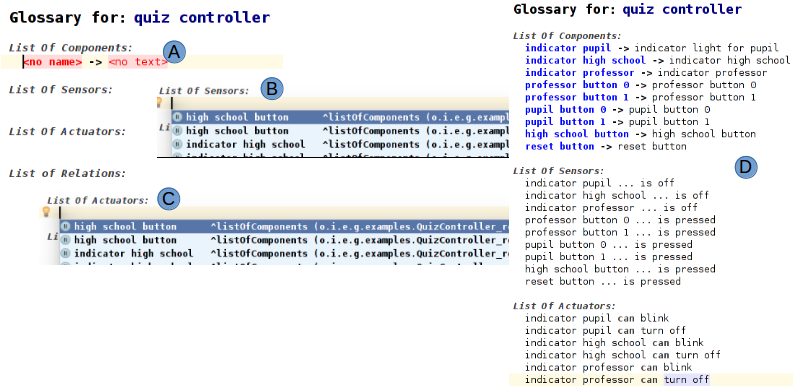
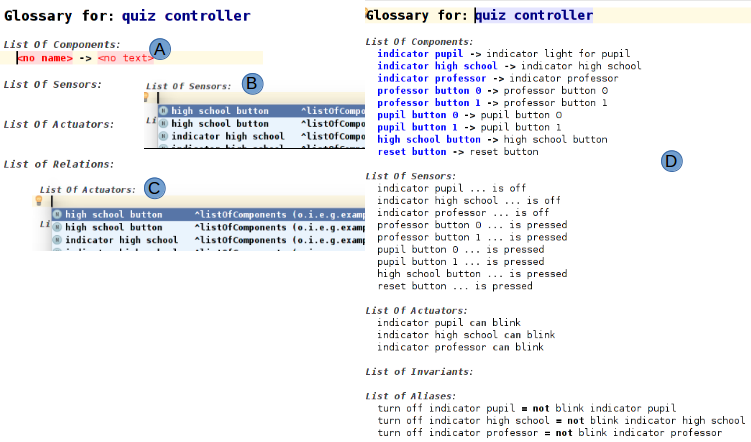
workedout with levi's feedback

diff --git a/text_demo/Demosteps.tex b/text_demo/Demosteps.tex
@@ -15,8 +15,7 @@ The user is provided with an editor
 1) components that interface with the controller; 2) sensors and actuators those
 components make available to the controller and 3) invariant relations
 that should hold between the sensor and actuator signals and aliases to
-formulas involving sensors or actuators for ease of writing.\levi{check for new
-version of the glossary for the QC}
+formulas involving sensors or actuators for ease of writing.
 \vspace{-.2cm}
 \begin{figure*}[!h]
 \centering
@@ -25,16 +24,13 @@ version of the glossary for the QC}
 components definition, (\emph{B}) sensors definition, (\emph{C}) actuators
 definition and (\emph{D}) completed QC glossary}
 \label{fig:glossary_def}
+\vspace{-.6cm}
 \end{figure*}
-\vspace{-.2cm}
 \subsection{Building \textsf{EARS-CTRL} requirements for the Quiz Controller}
 \vspace{-.2cm}
 The user is provided with an editor built in MPS \cite{mps} to specify the
-controller behavior. The user can input the requirements simply by filling in
-the instance of the EARS template with placeholders in the editor\levi{I don't
-think this sentence is necessary}.
-Figure~\ref{fig:EARS_req} provides step-by-step guidance to write the EARS
-requirements. In the projectional editor the user is provided with the option
+controller behavior. Figure~\ref{fig:EARS_req} provides step-by-step guidance to
+write the EARS requirements. In the projectional editor the user is provided with the option
 (i.e., using \emph{CTRL+Space} keys of the keyboard) to instantiate the
 EARS-based template with placeholders (\emph{Step A}). After obtaining an
 instance of the EARS template, the user fills in the placeholders with
@@ -43,30 +39,39 @@ of the figure~\ref{fig:EARS_req} depicts a complete Quiz Controller specificatio
 \begin{figure*}[!h]
 \centering
 \includegraphics[width=1.2\textwidth]{./images/Req_Spec_Steps.png}
-\caption{Step-by-step \textsf{EARS-CTRL} for controller requirements: (\emph{A})
-Empty instance of EARS template with placeholders, (\emph{B}) Filling instance of an EARS
-template with information and (\emph{C}) Completed EARS Specification }
+\caption{Step-by-step \textsf{EARS-CTRL} for controller requirements, (\emph{A})
+empty instance of EARS template with placeholders, (\emph{B}) filling instance
+of an EARS template with information and (\emph{C}) completed EARS Specification
+}
 \label{fig:EARS_req}
+\vspace{-.6cm}
 \end{figure*}
 \vspace{-.2cm}
 \subsection{Synthesizing \textsf{EARS-CTRL} requirements}
-\vspace{-.2cm}
+\label{SynthReq}
+\vspace{-.3cm}
 Once the requirements for controller are completely specified, the user can
 attempt to synthesize the controller. For that, the user can apply the
 \emph{Transform} intention (i.e., by using the \emph{Alt+Enter} keys) on the root of the specification (as
 shown in \emph{part A} of figure~\ref{fig:Spec_transform}). The generated outputs after applying the
-intention are comprised of: 1) the \emph{Controller Holder}, Data Flow
-Diagram (DFD) with blocks and wires (\emph{part B} of
-figure~\ref{fig:Spec_transform}); and 2) the \emph{Gate Descriptors}, pseudo
+intention are comprised of: 1) the \emph{Controller Holder},
+\emph{Synchronized Data Flow} (SFD) diagram with blocks and wires
+(\emph{part B} of figure~\ref{fig:Spec_transform}); 2) the \emph{Gate Descriptors}, pseudo
 code representing the behavior of each of the blocks used by the synthesized controller (\emph{part C} of
+figure~\ref{fig:Spec_transform}); 3) automatically generated Simulink block
+diagram (\emph{part D} of
+figure~\ref{fig:Spec_transform}); and 4) empty panel for performing simulation
+and test cases generation (\emph{part E} of
 figure~\ref{fig:Spec_transform}).
 %\vspace{-.7cm}
 \begin{figure*}[!h]
 \centering
 \includegraphics[width=1\textwidth]{./images/Transform.png}
 \caption{Controller generation steps: (\emph{A}) applying intention \emph{Alt+Enter},
-(\emph{B}) synchronized DFD of the controller (an excerpt)
-and (\emph{C}) pseudo code representing the behavior of the blocks (an excerpt)}
+(\emph{B}) synchronized DFD of the controller (an excerpt), (\emph{C}) pseudo
+code representing the behavior of the blocks (an excerpt), (\emph{D})
+generated Simulink model (an excerpt) and (\emph{E})
+generated empty panel for simulation}
 \label{fig:Spec_transform}
 \end{figure*}
 \vspace{-.5cm}
@@ -77,35 +82,24 @@ performed using following techniques: 1) simulating the behavior of the
 controller step-by-step; and 2) automatically generating the test cases.
 The resulting traces from simulation or test generation are analyzed in order to
 check if the controller behaves as expected.
-%\vspace{-.5cm}
+\vspace{-.3cm}
 \subsubsection{Simulation}
 \vspace{-.2cm}
-In order to perform simulation of the generated controller, the user
-starts by applying the \emph{GenerateSimulinkModel} intention on the root of the
-\emph{Controller Holder} (i.e., \emph{Step A}  in
-figure~\ref{fig:SimulationSteps}) to generate the Simulink counterpart of the
-controller\levi{this could be done in only one step together with the SDF
-controller}.
-After having the Simulink model generated, the user can apply the intention
-\emph{AddOutputChecker} (i.e., \emph{Step B and C} in figure
-~\ref{fig:SimulationSteps}) to start simulating the controller behavior by
-providing manual input. For simulation purpose, the user gets the
-\textsf{EARS-CTRL} panel that allows the user to simulate the controller by
-providing a sequence of inputs manually.\levi{is this sentence necessary?}
-Outputs are incrementally added to the panel as new inputs are provided by the
-requirements engineer (i.e., \emph{Step D} in figure~\ref{fig:SimulationSteps}).
-A \textsf{“Reset Results”} button enables the user to reset the controller to
-its initial state. 
+In order to perform simulation of the generated controller, the user gets the
+\textsf{EARS-CTRL} panel (i.e., as a result of applying the \emph{Transform}
+intention in section~\ref{SynthReq}) that allows the user to
+simulate the controller by providing a sequence of inputs manually.
+Figure~\ref{fig:SimulationSteps} shows a panel where outputs (i.e., the results)
+can be viewed in a tabular view provided to the user. A \textsf{“Reset Results”}
+button enables the user to reset the controller to its initial state. 
 \begin{figure*}[!h]
 \centering
-\includegraphics[width=1\textwidth]{./images/Simulation_Steps.png}
-\caption{Simulation steps for validation: (\emph{A}) applying
-GenerateSimulinkModel Intention, (\emph{B}) applying intention
-\textsf{AddOutputChecker} , (\emph{C}) generated empty
-\textsf{EARS-CTRL} panel and (\emph{D}) manually simulating the controller}
+\includegraphics[width=.9\textwidth]{./images/simulation.png}
+\caption{A panel for simulation of the generated controller for validation}
 \label{fig:SimulationSteps}
+\vspace{-.6cm}
 \end{figure*}
-\vspace{-.3cm}
+%\vspace{-.3cm}
 \subsubsection{Automatic Test Cases Generation} 
 \vspace{-.5cm}
 The user can automatically generate test cases

diff --git a/text_demo/Runningexample.tex b/text_demo/Runningexample.tex
@@ -2,11 +2,12 @@
 \section{The Running Example: Quiz Controller}
 \label{sec:example}
 \vspace{-.3cm}
-Our running example for this demontration is a controller for a system that
-allows playing quiz games -- quiz controller (QC) for short. We directly
-illustrate the behavior of the controller we are building as a set of
-\textsf{EARS-CTRL} requirements as shown in figure~\ref{fig:QC_reqs}. Given the
-requirements are written in English, they are self-explanatory.\levi{are they?}
+Our running example for this demonstration is a controller for a system that
+allows playing quiz games -- quiz controller (QC) for short. The controller
+blinks indicator light for the assigned user (i.e., pupil, professor and high
+school in our running example) and enables the user to answer the quiz
+questions.
+We directly illustrate the behavior of the controller we are building as a set of \textsf{EARS-CTRL} requirements as shown in figure~\ref{fig:QC_reqs}. Given the requirements are written in English, they are self-explanatory.
 \begin{figure*}[!h]
 \centering
 \includegraphics[width=1\textwidth]{./images/QC_Reqs.png}
